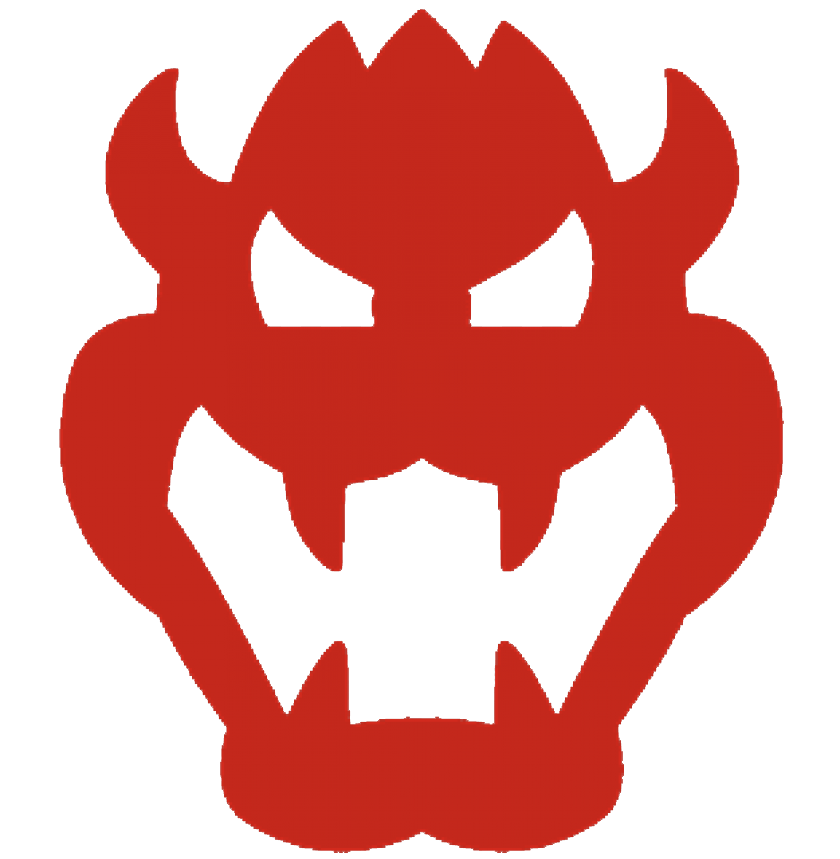
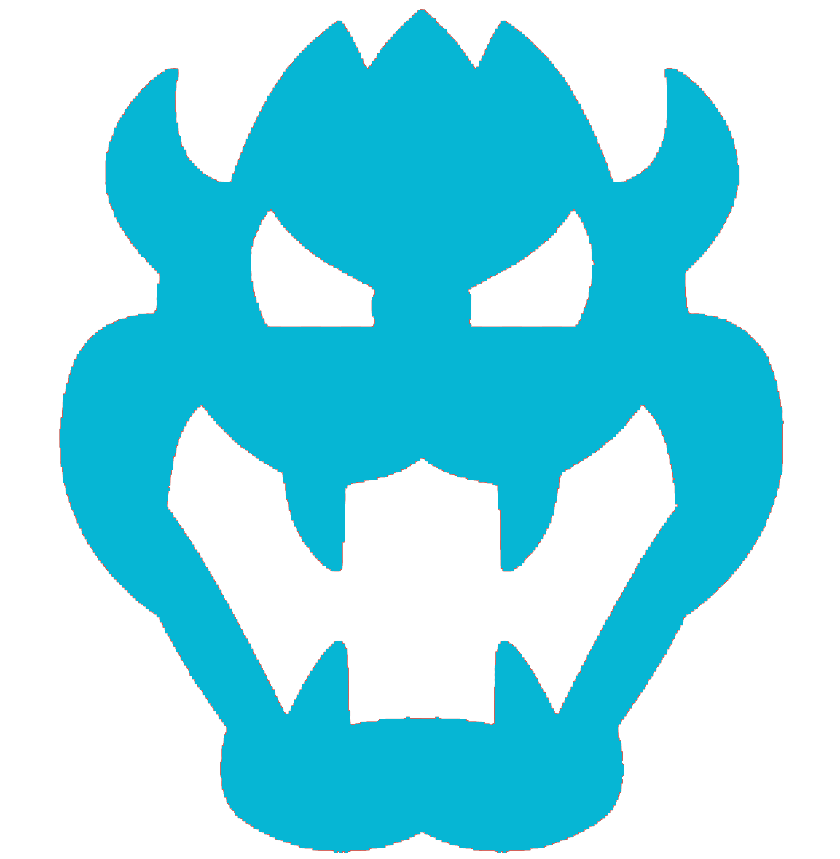
infinite scroll y cambio de color

diff --git a/src/hooks/useMovies.js b/src/hooks/useMovies.js
@@ -1,36 +1,73 @@
 import { useCallback, useEffect, useState, useRef } from 'react'
 import { searchMovies } from '../services/searchMovies'
 
-export function useMovies ({ type, quantity, id, query, genre, page }) {
+export function useMovies ({ type, quantity, id, query, genre }) {
   const [movies, setMovies] = useState()
   const timeoutRef = useRef(0)
+  const [totalPages, setTotalPages] = useState(1)
+  const [page, setPage] = useState(1)
+  const [loading, setLoading] = useState(false)
+  const observer = useRef()
 
   const getMovies = useCallback(async () => {
     if (query?.length < 3) return
-    const newMovies = await searchMovies({ type, id, query, genre, page })
+
+    const { movies: newMovies, totalPages: newTotalPages } = await searchMovies({ type, id, query, genre, page })
     if (quantity !== undefined) {
       const newMoviesSliced = newMovies?.slice(0, quantity)
-      setMovies(newMoviesSliced)
-      return
+      return newMoviesSliced
     }
+    setTotalPages(newTotalPages)
+    return newMovies
+  }, [{ type, page }])
+
+  const settingMovies = async () => {
+    const newMovies = await getMovies()
     setMovies(newMovies)
-  }, [{ type }])
+    setLoading(false)
+  }
 
   useEffect(() => {
     if (!type) return
     if (type === 'byName' && query.length < 3) return
     if (type === 'byName' && query.length >= 3) {
       timeoutRef.current = setTimeout(() => {
-        getMovies()
+        settingMovies()
       }, 300)
-      return
+    } else {
+      settingMovies()
     }
-    getMovies()
 
     return () => {
       clearTimeout(timeoutRef.current)
     }
-  }, [id, genre, query])
+  }, [id, genre, query, type])
 
-  return { movies, getMovies }
+  // INFINITE SCROLL
+
+  // agregar un estado para saber si tiene mas paginas, si no tiene mas paginas o tiene mas de 30 o 40 paginas, cortar el observer y la paginacion
+
+  const lastMovieRef = useCallback((ref) => {
+    if (observer.current) observer.current.disconnect()
+    observer.current = new IntersectionObserver(entries => {
+      if (entries[0].isIntersecting && page < totalPages) {
+        setPage(prevPage => (prevPage += 1))
+      }
+    })
+
+    setLoading(false)
+    if (ref) observer.current.observe(ref)
+  }, [movies])
+
+  useEffect(() => {
+    if (!movies) return
+
+    setLoading(true)
+    const gettingMovies = getMovies()
+    gettingMovies.then(newMovies => {
+      setMovies(prevMovies => [...new Set([...prevMovies, ...newMovies])])
+    })
+  }, [page])
+
+  return { movies, settingMovies, lastMovieRef, loading }
 }

diff --git a/src/components/MovieCard.jsx b/src/components/MovieCard.jsx
@@ -2,17 +2,16 @@ import React from 'react'
 import { Link } from 'wouter'
 import { StarRateIcon } from './Icons'
 
-export function MovieCard ({ id, title, date, rate, poster }) {
+export function MovieCard ({ id, title, date, rate, poster, lastMovieRef }) {
   const imgSrc = `https://image.tmdb.org/t/p/original${poster}`
   return (
-    <Link href={`/movie/${id}`}>
-      <a style={{ backgroundImage: `url(${imgSrc})` }} className='relative w-[250px] h-[350px] rounded bg-contain bg-center bg-no-repeat flex flex-col gap-2 rounded-b-md justify-end
-      before:content-[""] before:top-0 before:w-full before:h-full before:absolute before:bg-gradient-to-t hover:opacity-90 transition from-black/90 via-transparent to-transparent'>
+    <Link href={`/movie/${id}`} ref={lastMovieRef}>
+      <a style={{ backgroundImage: `url(${imgSrc})` }} className='relative w-[235px] h-[350px] rounded bg-contain bg-center bg-no-repeat flex flex-col gap-2 rounded-b-md justify-end before:content-[""] before:top-0 before:w-full before:h-full before:absolute before:bg-gradient-to-t hover:opacity-90 transition from-black/90 via-black/10 to-transparent'>
 
-        <div className='p-3 z-20'>
+        <div className='py-1.5 px-3 z-20' >
           <h3>{title}</h3>
-          <div className='flex justify-between '>
-            <span className='flex gap-2 items-center text-gray-400'> <StarRateIcon/> {rate.toFixed(1)} / 10</span>
+          <div className='flex justify-between mt-1'>
+            <span className='flex gap-2 items-center text-gray-400'> <StarRateIcon/> {rate ? rate.toFixed(1) : 0} / 10</span>
             <span className='text-gray-400'>{date.slice(0, 4)}</span>
           </div>
         </div>
@@ -20,18 +19,3 @@ export function MovieCard ({ id, title, date, rate, poster }) {
     </Link>
   )
 }
-
-{ /* <article className='w-[250px] flex flex-col gap-2 bg-gray-900 rounded-b-md '>
-      <a href="">
-        <img src={imgSrc} alt="" className='hover:opacity-90' />
-      </a>
-      <header className='px-3'>
-        <Link href={`/movie/${id}`}>
-          <a href='' className=' text-lg hover:opacity-80'>{title}</a>
-        </Link>
-      </header>
-      <footer className='flex justify-between p-3 justify-self-end'>
-        <span className='flex gap-2 items-center text-gray-400'> <StarRateIcon/> {rate.toFixed(1)} / 10</span>
-        <span className='text-gray-400'>{date.slice(0, 4)}</span>
-      </footer>
-    </article> */ }

diff --git a/src/services/searchMovies.js b/src/services/searchMovies.js
@@ -8,9 +8,9 @@ const options = {
 
 export function searchMovies ({ type, id, query, page, genre }) {
   const searchs = {
-    trending: 'https://api.themoviedb.org/3/trending/movie/week?language=en-US',
-    top_rated: 'https://api.themoviedb.org/3/movie/top_rated?language=en-US',
-    popular: 'https://api.themoviedb.org/3/movie/popular?language=en-US&page=1',
+    trending: `https://api.themoviedb.org/3/trending/movie/week?language=en-US&page=${page}`,
+    top_rated: `https://api.themoviedb.org/3/movie/top_rated?language=en-US&page=${page}`,
+    popular: `https://api.themoviedb.org/3/movie/popular?language=en-US&page=${page}`,
     byId: `https://api.themoviedb.org/3/movie/${id}?language=en-US`,
     byName: `https://api.themoviedb.org/3/search/movie?query=${query}&include_adult=false&language=en-US&page=${page}`,
     byGenre: `https://api.themoviedb.org/3/discover/movie?include_adult=false&include_video=false&language=en-US&page=${page}&sort_by=popularity.desc&with_genres=${genre}`
@@ -19,8 +19,17 @@ export function searchMovies ({ type, id, query, page, genre }) {
   return fetch(searchs[type], options)
     .then(res => res.json())
     .then(res => {
+      console.log(res)
+
+      const totalPages = res.total_pages
       const searchResults = id !== undefined ? [res] : res.results
-      const mappedMovies = searchResults?.map(movie => {
+      // tengo que filtrar las peliculas que tengan data vaciax
+      const filteredMovies = searchResults.filter(movie => {
+        if (!movie.poster_path || !movie.release_date || !movie.vote_average || !movie.vote_count) {
+          return false
+        } else { return true }
+      })
+      const mappedMovies = filteredMovies?.map(movie => {
         return ({
           id: movie.id,
           title: movie.title,
@@ -34,7 +43,8 @@ export function searchMovies ({ type, id, query, page, genre }) {
           duration: movie.runtime
         })
       })
-      return mappedMovies
+
+      return { movies: mappedMovies, totalPages }
     })
     .catch(err => console.error(err))
 }

diff --git a/src/pages/MovieListPage.jsx b/src/pages/MovieListPage.jsx
@@ -1,16 +1,14 @@
 import React, { useEffect } from 'react'
-import { PageOfMovies } from '../components/PageOfMovies'
+import { GroupOfMovies } from '../components/GroupOfMovies'
 import { Header } from '../components/Header'
 import { Link, useParams } from 'wouter'
 import { useMovies } from '../hooks/useMovies'
+import { Loader } from '../components/Loader'
+import { Footer } from '../components/Footer'
 
 export function MovieListPage () {
   const params = useParams()
-  const { movies, getMovies } = useMovies({ type: params.type })
-
-  useEffect(() => {
-    getMovies()
-  }, [params])
+  const { movies, lastMovieRef, loading } = useMovies({ type: params.type })
 
   return (
     <>
@@ -19,11 +17,12 @@ export function MovieListPage () {
         <Link href='/list/movies/popular' className={`movieList-link-popular text-2xl  ${params.type === 'popular' ? 'text-white active' : 'text-gray-400'} `}>Most Popular</Link>
         <Link href='/list/movies/top_rated' className={`movieList-link-rated text-2xl  ${params.type === 'top_rated' ? 'text-white active' : 'text-gray-400'} `}>Top Rated</Link>
         <Link href='/list/movies/trending' className={`movieList-link-trending text-2xl  ${params.type === 'trending' ? 'text-white active' : 'text-gray-400'}  `}>Trending</Link>
-        <div className='movieList-link-border absolute opacity-0 -bottom-2 w-[40px] mt-1 h-[4px] bg-red-600 rounded transition-all duration-500'></div>
+        <div className='movieList-link-border absolute opacity-0 -bottom-2 w-[40px] mt-1 h-[4px] bg-cyan-500 rounded transition-all duration-500'></div>
       </section>
 
-      <PageOfMovies movies={movies}></PageOfMovies>
-
+      <GroupOfMovies movies={movies} lastMovieRef={lastMovieRef}></GroupOfMovies>
+      {loading && <Loader/>}
+      <Footer/>
     </>
   )
 }

diff --git a/src/components/Browser.jsx b/src/components/Browser.jsx
@@ -2,14 +2,20 @@ import React from 'react'
 import loupe from '../assets/loupe.png'
 import { useSearch } from '../hooks/useSearch'
 import { Link } from 'wouter'
+import { useMovies } from '../hooks/useMovies'
 
 export function Browser () {
-  const { value, setValue, handleSubmit, movies, display, setDisplay } = useSearch()
+  const { value, setValue, handleSubmit, display, setDisplay } = useSearch()
+  const { movies } = useMovies({ type: 'byName', query: value, quantity: 10 })
 
   return (
     <div className='relative' onPointerLeave={() => setDisplay(false)}>
       <form onSubmit={(e) => handleSubmit(e)} action="" className='flex rounded-md border-white border-2 px-2.5 py-1.5 h-9' >
-        <input type="text" value={value} onChange={(e) => setValue(e.target.value)} onFocus={() => setDisplay(true)} onPointerEnter={() => value.length > 3 ? setDisplay(true) : setDisplay(false)} className='w-72 bg-transparent focus-visible:outline-none'/>
+        <input type="text" value={value}
+        onChange={(e) => setValue(e.target.value)}
+        onFocus={() => setDisplay(true)}
+        onPointerEnter={() => value.length > 3 ? setDisplay(true) : setDisplay(false)}
+        className='w-72 bg-transparent focus-visible:outline-none'/>
         <button type="submit" ><img src={loupe} alt="" /></button>
       </form>
       <ul className={`${display ? 'flex' : 'hidden'} flex-col rounded absolute bg-gray-900/60 backdrop-blur w-full max-h-[400px] overflow-auto scroll` } >

diff --git a/src/components/MovieInfo.jsx b/src/components/MovieInfo.jsx
@@ -36,7 +36,7 @@ export function MovieInfo ({ movie, Acting, Writing, Directing }) {
           <div className='flex gap-3'>
             {genres.map(({ id, name }) => {
               return (
-                <Link href={`/search/genre=${id}/page=1`} key={id}>
+                <Link href={`/search/genre=${id}`} key={id}>
                   <a className='rounded-3xl font-semibold border-gray-100 border-solid border px-4 py-1 text-gray-100 bg-gray-950 bg-opacity-60 transition duration-300 hover:border-gray-300 hover:bg-gray-300 hover:text-black '>{name}</a>
                 </Link>
               )
@@ -57,7 +57,7 @@ export function MovieInfo ({ movie, Acting, Writing, Directing }) {
             if (index >= 3) return []
             return (<span className='text-white' key={index}> {star.name}</span>)
           })}</h4>
-          <ButtonWatchTrailer trailer={trailer } classes={'flex items-center gap-3 rounded-3xl border px-4 py-1.5 w-max bg-gray-950 bg-opacity-60 text-lg'} imgWidth={'w-[18px]'}/>
+          <ButtonWatchTrailer trailer={trailer } classes={'gap-3 rounded-3xl  w-max '} imgWidth={'w-[18px] '}/>
         </div>
       </article>
     </section>

diff --git a/src/pages/SearchPage.jsx b/src/pages/SearchPage.jsx
@@ -1,20 +1,23 @@
 import React from 'react'
 import { Header } from '../components/Header'
-import { PageOfMovies } from '../components/PageOfMovies'
+import { GroupOfMovies } from '../components/GroupOfMovies'
 import { useParams } from 'wouter'
 import { useMovies } from '../hooks/useMovies'
+import { Loader } from '../components/Loader'
+import { Footer } from '../components/Footer'
 
 export function SearchPage () {
-  const { query, genre, page } = useParams()
-  const { movies } = useMovies({ type: query ? 'byName' : 'byGenre', query, genre, page })
-  console.log(page)
+  const { query, genre } = useParams()
+  const { movies, lastMovieRef, loading } = useMovies({ type: query ? 'byName' : 'byGenre', query, genre })
   return (
     <>
       <Header></Header>
       <section className='pt-28'>
 
       </section>
-      <PageOfMovies movies={movies}></PageOfMovies>
+      <GroupOfMovies movies={movies} lastMovieRef={lastMovieRef}></GroupOfMovies>
+      {loading && <Loader/>}
+      <Footer/>
     </>
   )
 }

diff --git a/src/components/RowOfMovies.jsx b/src/components/RowOfMovies.jsx
@@ -12,10 +12,10 @@ export function RowOfMovies ({ rowTitle, type, href }) {
         <a className={`RowOfMovies relative text-3xl inline-block mb-7
         before:content-chevronRight before:grayscale before:hover:grayscale-0 before:transition-all before:duration-500 before:absolute before:-right-11 before:scale-90 before:-top-1 before:hover:-right-12`}>
           {rowTitle}
-          <div className='RowOfMovies-border mt-1 w-1/3 h-[4px] bg-red-600 rounded transition-all duration-500'></div>
+          <div className='RowOfMovies-border mt-1 w-1/3 h-[4px] bg-cyan-500 rounded transition-all duration-500'></div>
         </a>
       </Link>
-      <div className='flex justify-between gap-5'>
+      <div className='flex justify-between'>
         {movies?.map(movie => {
           return (
             <MovieCard key={movie.id} id={movie.id} title={movie.title} date={movie.date} rate={movie.rate} poster={movie.poster}></MovieCard>

diff --git a/src/components/Header.jsx b/src/components/Header.jsx
@@ -2,17 +2,18 @@ import React from 'react'
 import bowserIcon from '../assets/bowserIcon.png'
 import { Link } from 'wouter'
 import { Browser } from './Browser'
+import { LanguageSwitcher } from './LanguageSwitcher'
 
 export function Header () {
   return (
-    <header className='fixed w-full z-20 bg-gray-800 bg-opacity-60 backdrop-blur'>
-      <nav className='m-auto flex items-center justify-between p-2  w-[1600px] h-16 px-12 '>
+    <header className='fixed w-full z-20 bg-gray-800 bg-opacity-60 backdrop-blur z-20'>
+      <nav className='m-auto flex items-center justify-between p-2  max-w-[1600px] h-16 px-12 '>
         <Link href='/' className='flex items-center'>
           <img className='w-12 pr-2' src={bowserIcon} alt="" />
           <h4 className=' text-xl'>Movie Bowser</h4>
         </Link>
         <Browser/>
-        <h4>???????????</h4>
+        <LanguageSwitcher/>
       </nav>
     </header>
   )

diff --git a/src/hooks/useSearch.js b/src/hooks/useSearch.js
@@ -1,13 +1,11 @@
 import { useEffect, useRef, useState } from 'react'
 import { useLocation } from 'wouter'
-import { useMovies } from './useMovies'
 
 export function useSearch () {
   const [value, setValue] = useState('')
   const [location, setLocation] = useLocation()
   const [display, setDisplay] = useState(false)
   const timeoutRef = useRef(0)
-  const { movies } = useMovies({ type: 'byName', query: value, quantity: 10, page: 1 })
 
   useEffect(() => {
     setDisplay(false)
@@ -25,9 +23,9 @@ export function useSearch () {
   const handleSubmit = (e) => {
     e.preventDefault()
     if (value.length < 3) return
-    const searchQuery = `/search/q=${value}/page=1`
+    const searchQuery = `/search/q=${value}`
     setLocation(searchQuery)
   }
 
-  return { value, setValue, handleSubmit, movies, display, setDisplay }
+  return { value, setValue, handleSubmit, display, setDisplay }
 }

diff --git a/src/components/ButtonWatchTrailer.jsx b/src/components/ButtonWatchTrailer.jsx
@@ -4,11 +4,11 @@ import { useVideoModal } from '../hooks/useVideoModal'
 
 export function ButtonWatchTrailer ({ trailer, classes, imgWidth }) {
   const { changeVideoModal } = useVideoModal()
-  const className = `${classes} hover:scale-105 transition duration-300   `
+  const className = `${classes} hover:scale-105 transition duration-300 flex items-center border border-cyan-600 bg-gray-950 text-white bg-opacity-60 px-4 py-1.5`
   return (
     <>
       <button href='' target='_blank' className={className} rel="noreferrer" onClick={() => changeVideoModal({ key: trailer })}>
-        <img src={playIcon} alt="" className={`inline ${imgWidth}`}/>
+        <img src={playIcon} alt="" className={`inline ${imgWidth}`} style={{ filter: 'invert(34%) sepia(60%) saturate(1891%) hue-rotate(164deg) brightness(101%) contrast(94%)' }}/>
         WATCH TRAILER
       </button>
     </>

diff --git a/src/components/GroupOfMovies.jsx b/src/components/GroupOfMovies.jsx
@@ -1,0 +1,21 @@
+import React from 'react'
+import { MovieCard } from './MovieCard'
+
+export function GroupOfMovies ({ movies, lastMovieRef }) {
+  // crear un estado que vaya amacenando la cantidad de peliculas que hubo antes de cambiarlas y para las nuevas agregar animacion?
+  return (
+    <section className='grid grid-cols-5 grid-rows-4 gap-4 pt-12 px-12'>
+      {movies?.map((movie, index) => {
+        if (movies.length === index + 1) {
+          return (
+            <MovieCard key={movie.id} id={movie.id} title={movie.title} date={movie.date} rate={movie.rate} poster={movie.poster} lastMovieRef={lastMovieRef}></MovieCard>
+          )
+        }
+
+        return (
+          <MovieCard key={movie.id} id={movie.id} title={movie.title} date={movie.date} rate={movie.rate} poster={movie.poster}></MovieCard>
+        )
+      })}
+    </section>
+  )
+}
